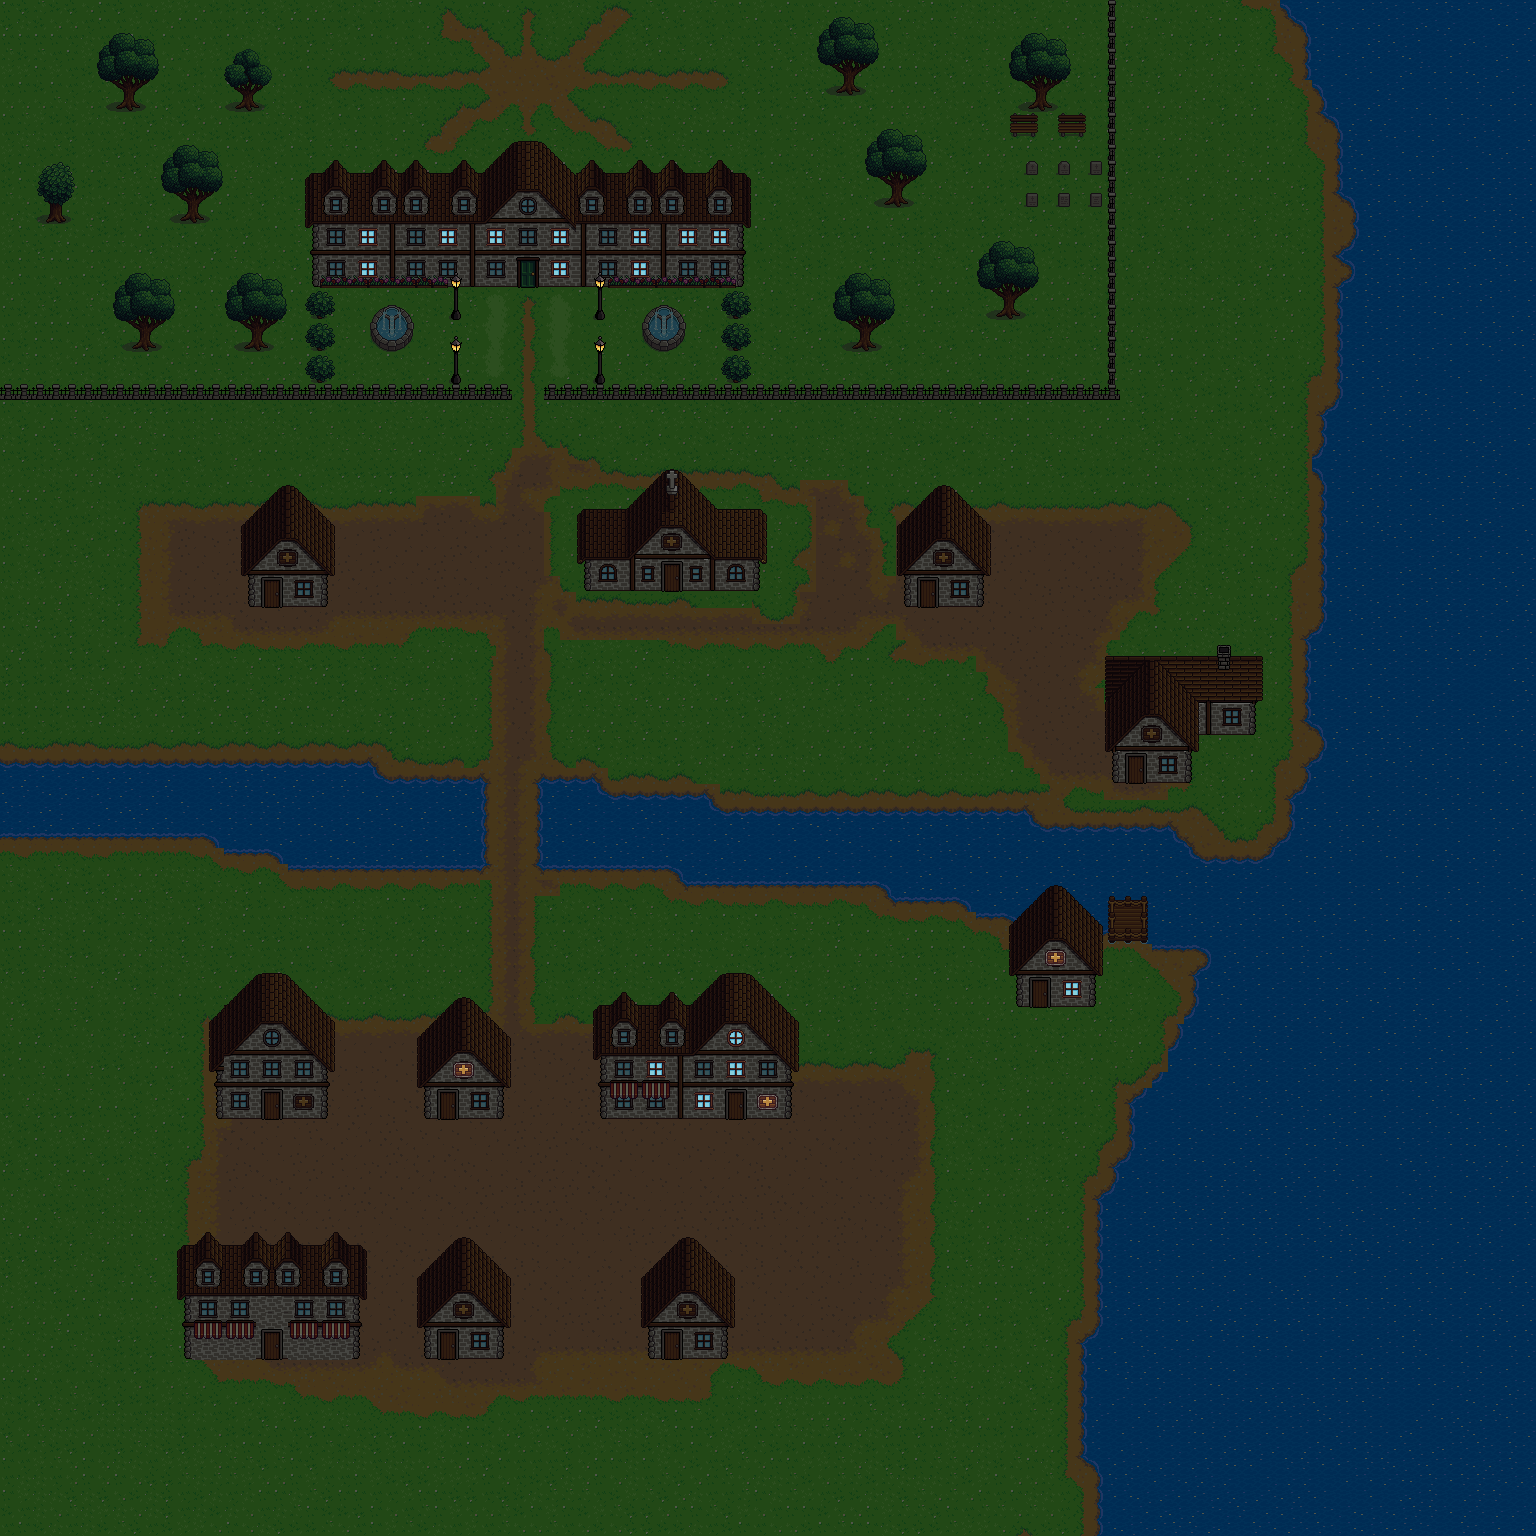
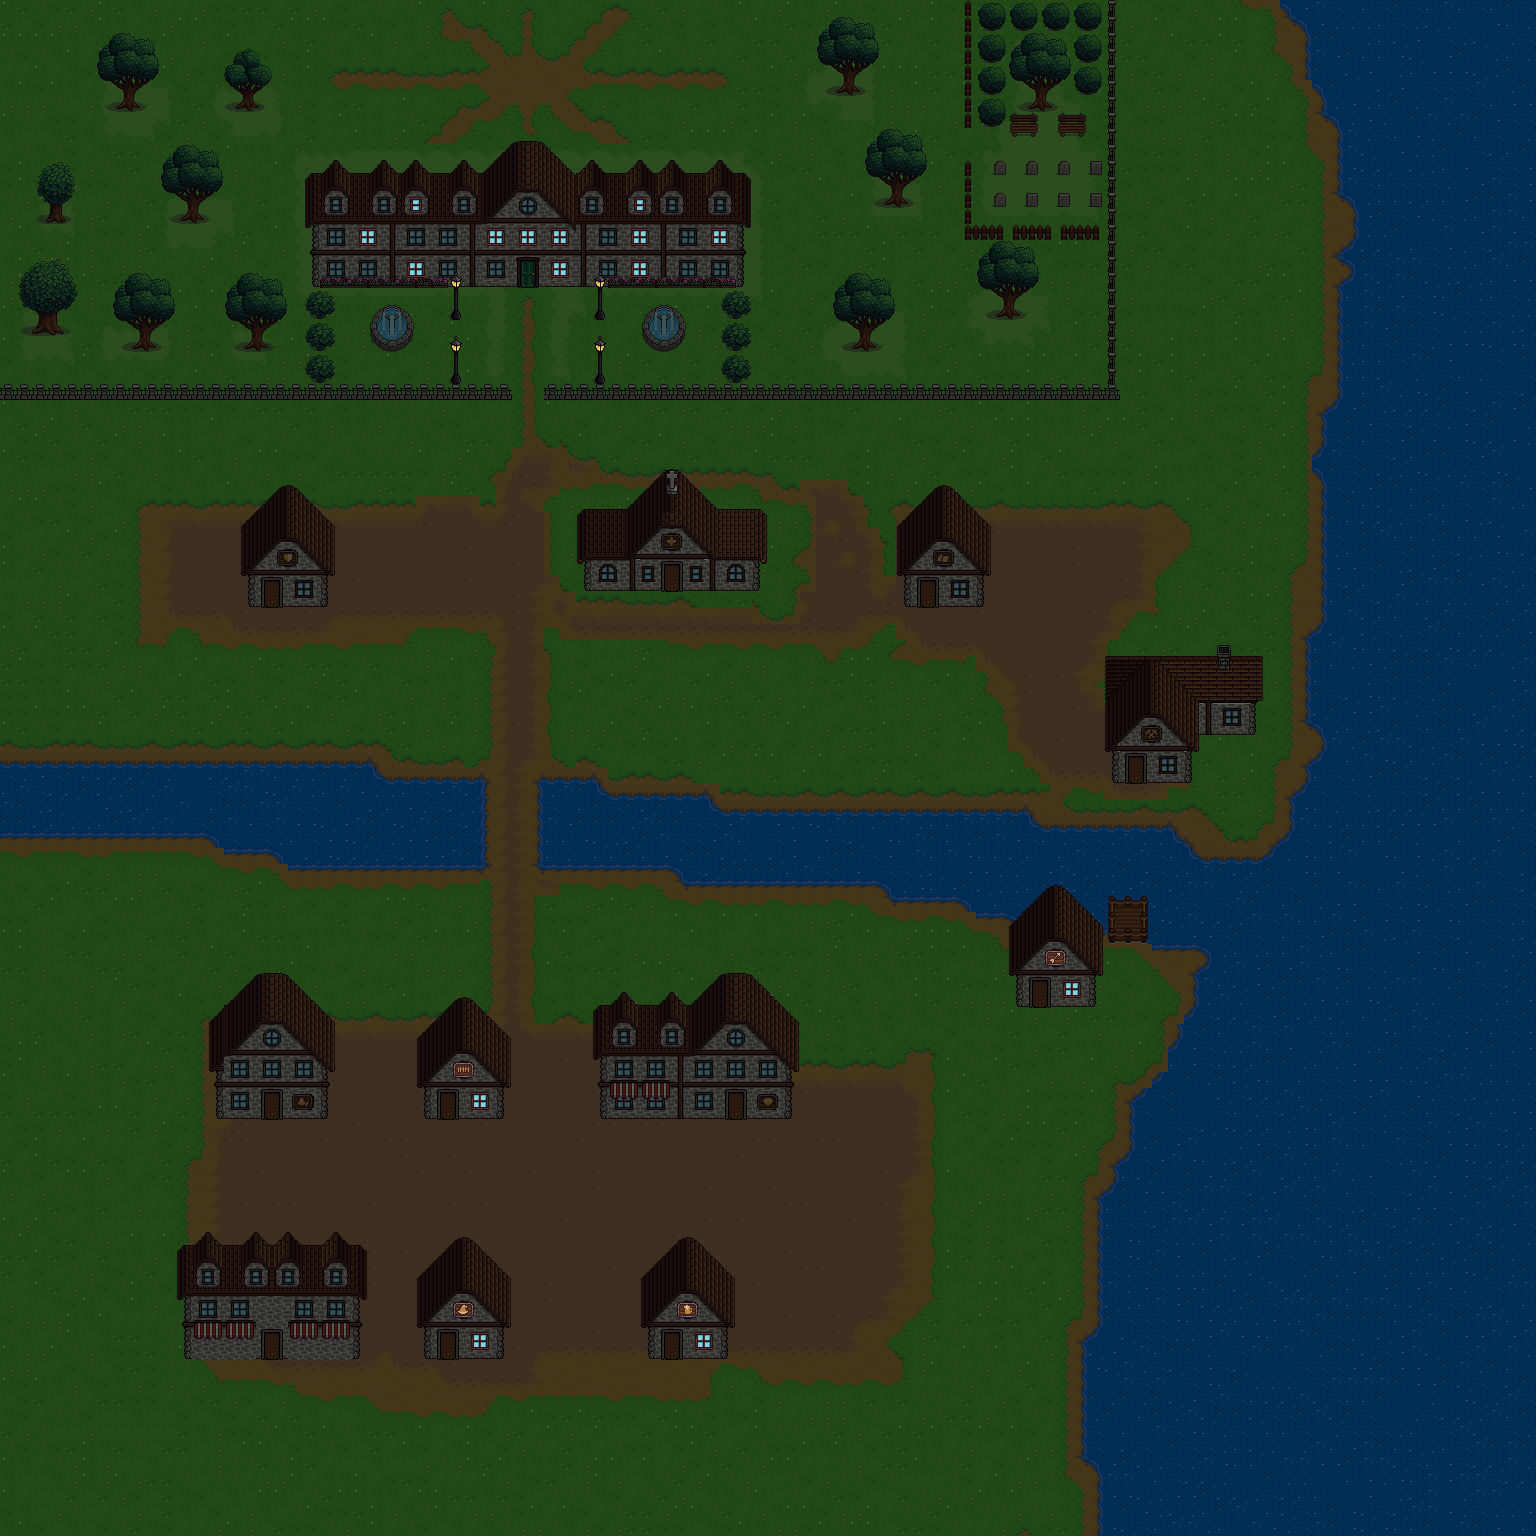
building type symbols  OK

diff --git a/data/tiled/sdgasgd.tsx b/data/tiled/sdgasgd.tsx
@@ -1,0 +1,4 @@
+<?xml version="1.0" encoding="UTF-8"?>
+<tileset version="1.10" tiledversion="1.11.0" name="sdgasgd" tilewidth="16" tileheight="16" tilecount="9216" columns="96">
+ <image source="../imgs/my_ports/30/day_dimmed.png" width="1536" height="1536"/>
+</tileset>

diff --git a/data/imgs/my_ports/30/adgadg.tsx b/data/imgs/my_ports/30/adgadg.tsx
@@ -1,0 +1,4 @@
+<?xml version="1.0" encoding="UTF-8"?>
+<tileset version="1.10" tiledversion="1.11.0" name="adgadg" tilewidth="16" tileheight="16" tilecount="9216" columns="96">
+ <image source="day.png" width="1536" height="1536"/>
+</tileset>

diff --git a/src/tests/make_image_dimmer.py b/src/tests/make_image_dimmer.py
@@ -17,6 +17,6 @@ def make_image_dimmer(image_path, output_path, dim_factor=0.5):
 
 
 # Example usage
-image_path = r'D:\data\code\python\project_mount_christ\data\imgs\my_ports\map_test.png'
-output_path = r'D:\data\code\python\project_mount_christ\data\imgs\my_ports\map_test_dimmed.png'
+image_path = r'D:\data\code\python\project_mount_christ\data\imgs\my_ports\30\day.png'
+output_path = r'D:\data\code\python\project_mount_christ\data\imgs\my_ports\30\day_dimmed.png'
 make_image_dimmer(image_path, output_path, dim_factor=0.4)
